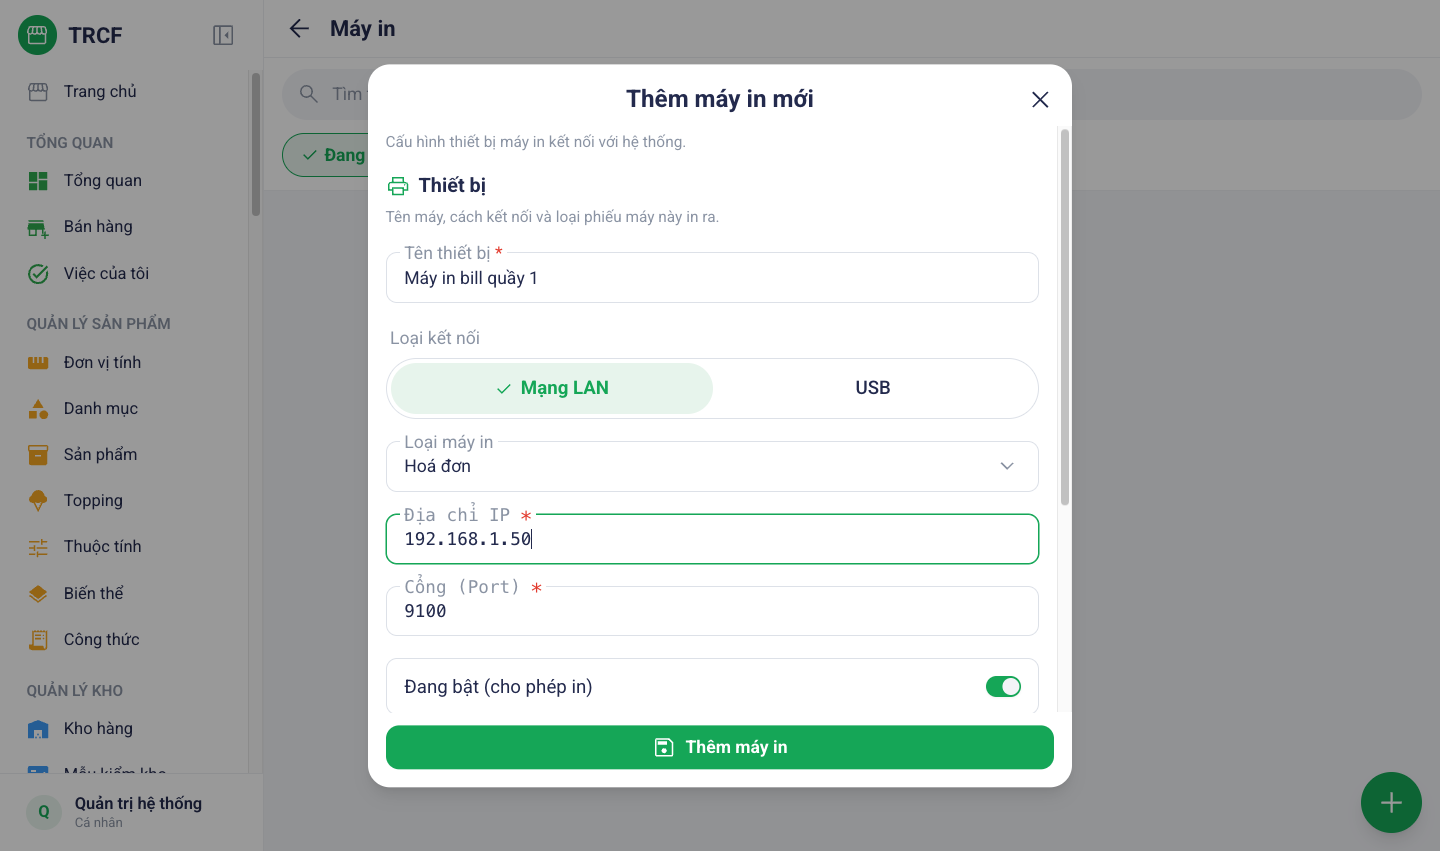
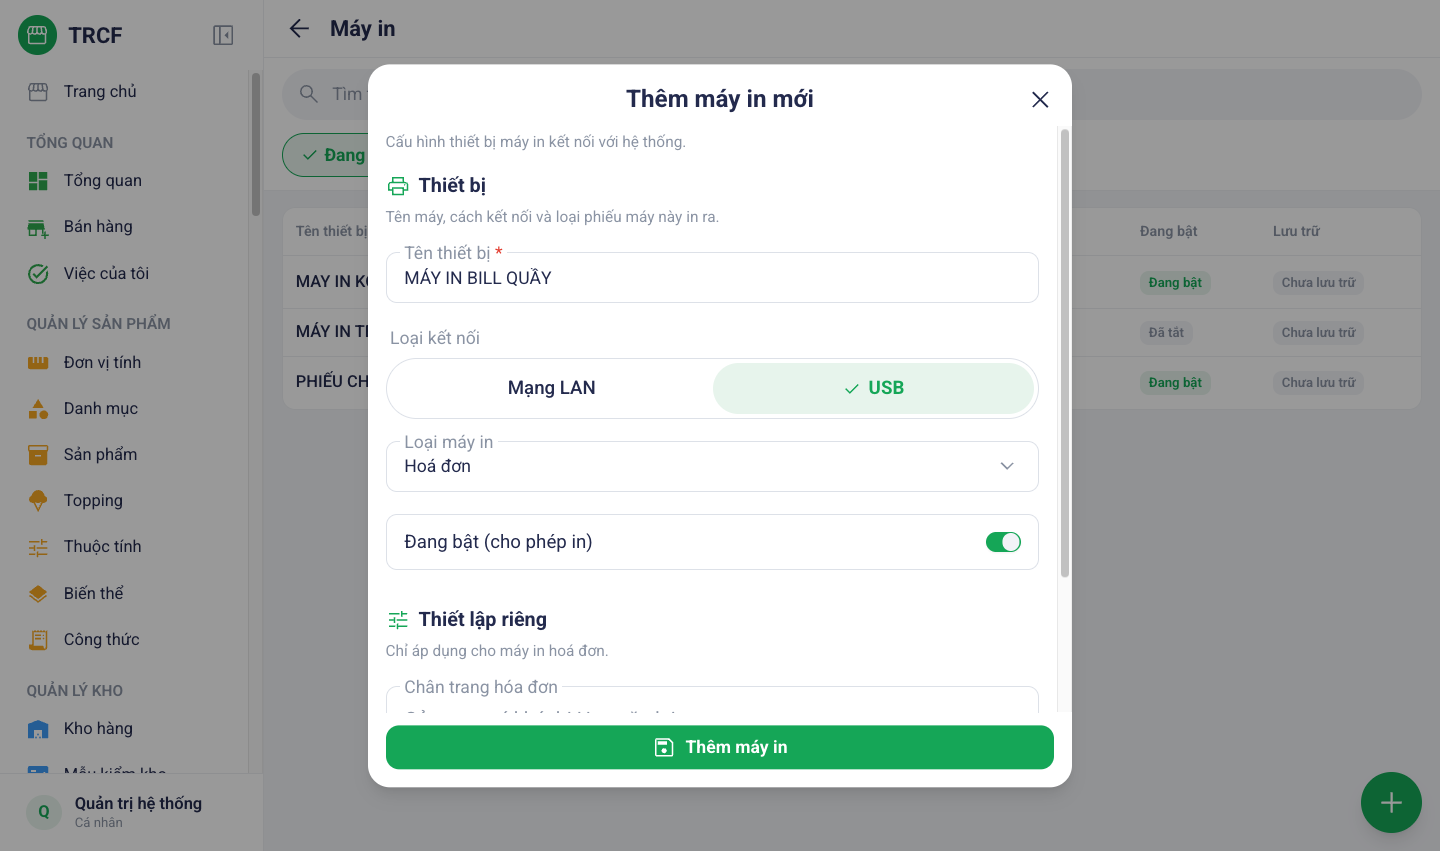
docs(4.1, 4.2, 5.1): máy in và màn hình bếp theo thiết bị thật Coffeetree
Máy in bill USB MÁY IN BILL QUẦY, máy in tem LAN 192.168.1.230 tem 50×30 in
cho đơn mang đi + app (không in TẠI CHỖ), màn hình bếp 1 - ESPRESSO với 3
danh mục cà phê. Ảnh danh sách máy in ẩn cột Kết nối in (máy local không có
chương trình in nên báo đỏ giả) và máy in thử đã tắt. Chân trang bill không
in mật khẩu wifi.

diff --git a/noi-dung/4-1-may-in-bill.md b/noi-dung/4-1-may-in-bill.md
@@ -10,7 +10,7 @@ Menu trái: ==Thiết lập cửa hàng → Máy in== (địa chỉ `/printers`)
 
 ## 2. Ví dụ nền và các bước thực hiện
 
-> **Ví dụ:** quán có một máy in bill nối mạng LAN ở quầy thu ngân, cuối bill in lời cảm ơn.
+> **Ví dụ:** quán có **MÁY IN BILL QUẦY** cắm USB vào máy tính thu ngân. Cuối bill in lời cảm ơn và tên wifi cho khách.
 
 ### Bước 1: Mở trang Máy in
 
@@ -22,7 +22,7 @@ Menu trái: ==Thiết lập cửa hàng → Máy in== (địa chỉ `/printers`)
 
 - Bấm nút tròn **+** ở góc dưới bên phải.
 - Điền như ảnh.
-- **Địa chỉ IP**: nhập IP thật của máy in ở quán.
+- Máy in nối mạng LAN thì chọn **Mạng LAN**, rồi nhập **Địa chỉ IP** thật của máy (xem [bài 4.2](4-2-may-in-nhan.md)).
 
 ![Bước 2: Khai thiết bị](images/04-may-in-buoc-2-hoa-don.png)
 
@@ -39,7 +39,7 @@ Menu trái: ==Thiết lập cửa hàng → Máy in== (địa chỉ `/printers`)
 
 | Trường | Điền gì | Bắt buộc |
 | --- | --- | --- |
-| Tên thiết bị | VD **Máy in bill quầy 1** | ✅ |
+| Tên thiết bị | VD **MÁY IN BILL QUẦY** | ✅ |
 | Loại kết nối | *Mạng LAN* (có IP) hoặc *USB* (cắm trực tiếp) | ✅ |
 | Loại máy in | *Hoá đơn* / *Nhãn dán (Label)* / *Phiếu yêu cầu món (KOT)* / *Phiếu đóng ca* | ✅ |
 | Địa chỉ IP, Cổng (Port) | Chỉ hiện khi chọn LAN. Cổng thường **9100** | ✅ nếu LAN |
@@ -49,7 +49,7 @@ Menu trái: ==Thiết lập cửa hàng → Máy in== (địa chỉ `/printers`)
 
 | Trường | Điền gì |
 | --- | --- |
-| Chân trang hóa đơn | Câu in ở cuối bill |
+| Chân trang hóa đơn | Câu in ở cuối bill: lời cảm ơn, tên wifi, hotline |
 
 Sau khi khai máy in, gán máy cho quầy ở ==Thiết lập cửa hàng → Quầy bán hàng==: sửa quầy, chọn máy ở ô **Máy in**.
 

diff --git a/noi-dung/5-1-man-hinh-bep.md b/noi-dung/5-1-man-hinh-bep.md
@@ -12,11 +12,11 @@ Menu trái: ==Thiết lập cửa hàng → Màn hình bếp== (địa chỉ `/k
 
 ## 2. Ví dụ nền và các bước thực hiện
 
-> **Ví dụ:** khu pha chế có 1 màn hình bếp.
+> **Ví dụ:** quầy pha chế chia 3 khu, mỗi khu một màn hình bếp. Bài này tạo màn của khu máy espresso.
 >
-> - Tên: **Bếp pha chế**.
-> - Quầy POS áp dụng: **Quầy chính**.
-> - Danh mục hiển thị: **Cà phê**.
+> - **1 - ESPRESSO**: CÀ PHÊ TRUYỀN THỐNG, CÀ PHÊ Ý, CÀ PHÊ SỮA TƯƠI.
+> - Làm tương tự cho **2 - MATCHA** (MATCHA, CHOCOLATE, BƠ, GELATO, SEASONAL, VẬT PHẨM) và **3 - TRA** (TRÀ TRÁI CÂY, COLDBREW, NƯỚC ÉP, BÁNH).
+> - Cả 3 màn nhận đơn của **Quầy chính**.
 
 ### Bước 1: Mở trang Màn hình bếp
 
@@ -50,7 +50,7 @@ Menu trái: ==Thiết lập cửa hàng → Màn hình bếp== (địa chỉ `/k
 
 | Trường | Điền gì | Bắt buộc |
 | --- | --- | --- |
-| Tên màn hình | VD **Bếp pha chế**, **Bếp nóng** | ✅ |
+| Tên màn hình | Đặt theo khu pha chế. VD **1 - ESPRESSO**, **2 - MATCHA**, **3 - TRA** | ✅ |
 | Quầy POS áp dụng | Màn này **chỉ nhận đơn của quầy đó** | ✅ |
 | Danh mục hiển thị | Nhóm món màn này phụ trách. Để trống: nhận mọi món | — |
 | Hoạt động | Tắt: ngừng dùng màn này | — |
@@ -59,7 +59,7 @@ Menu trái: ==Thiết lập cửa hàng → Màn hình bếp== (địa chỉ `/k
 
 | Thông tin | Từ đâu ra |
 | --- | --- |
-| Tên món + ghi chú trong ngoặc. VD *Trà đào (VỪA + ÍT ĐÁ)* | Thuộc tính |
+| Tên món + ghi chú trong ngoặc. VD *MAY ĐEN ĐÁ (ÍT ĐÁ)* | Thuộc tính |
 | Số lượng | Đơn hàng |
 | Ghi chú của khách | Thu ngân nhập lúc bán |
 | **Ghi chú công thức ⚡** | Trường khai ở [mục 2.2](2-2-thanh-pham.md) |

diff --git a/noi-dung/4-2-may-in-nhan.md b/noi-dung/4-2-may-in-nhan.md
@@ -12,9 +12,9 @@ Menu trái: ==Thiết lập cửa hàng → Máy in== (địa chỉ `/printers`)
 
 > **Ví dụ:** quán có máy in tem dán lên ly.
 >
-> - **Máy tem quầy 1**: loại Nhãn dán, mạng LAN, IP **192.168.1.51**, cổng **9100**.
+> - **MÁY IN TEM**: loại Nhãn dán, mạng LAN, IP **192.168.1.230**, cổng **9100**.
 > - Con tem rộng **50** mm, cao **30** mm (đo con tem thật).
-> - In tem cho đơn **MANG VỀ** và **TẠI CHỖ**.
+> - In tem cho đơn mang đi và đơn app: **MANG ĐI**, **GRAB**, **SHOPEE**, **BEEFOOD**, **ZALO**. Đơn **TẠI CHỖ** dùng ly thuỷ tinh, không cần tem.
 
 ### Bước 1: Mở trang Máy in
 
@@ -49,7 +49,7 @@ Menu trái: ==Thiết lập cửa hàng → Máy in== (địa chỉ `/printers`)
 
 | Trường | Điền gì | Bắt buộc |
 | --- | --- | --- |
-| Tên thiết bị | VD **Máy tem quầy 1** | ✅ |
+| Tên thiết bị | VD **MÁY IN TEM** | ✅ |
 | Loại kết nối | *Mạng LAN* (có IP) hoặc *USB* (cắm trực tiếp) | ✅ |
 | Loại máy in | *Hoá đơn* / *Nhãn dán (Label)* / *Phiếu yêu cầu món (KOT)* / *Phiếu đóng ca* | ✅ |
 | Địa chỉ IP, Cổng (Port) | Chỉ hiện khi chọn LAN. Cổng thường **9100** | ✅ nếu LAN |
